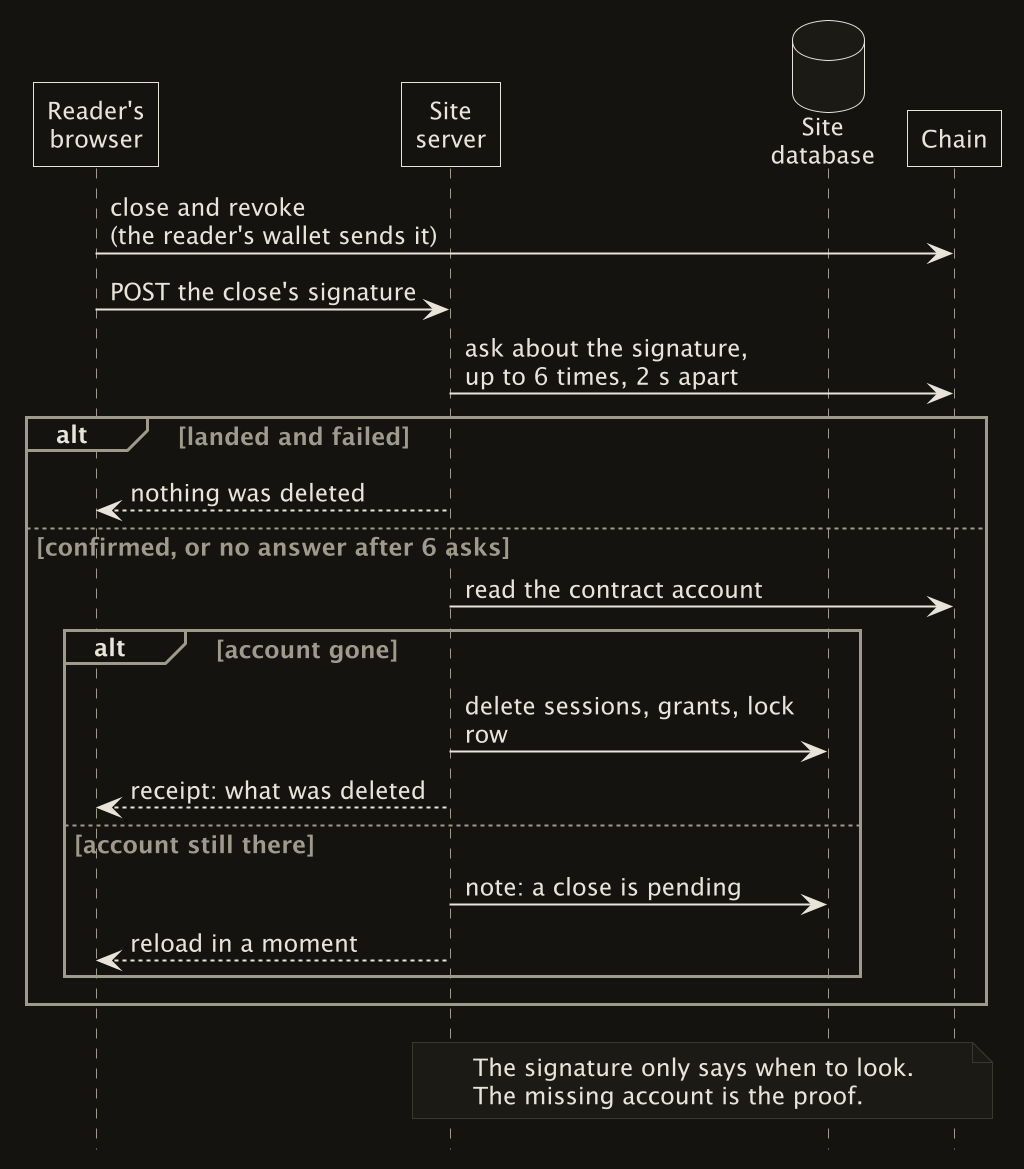
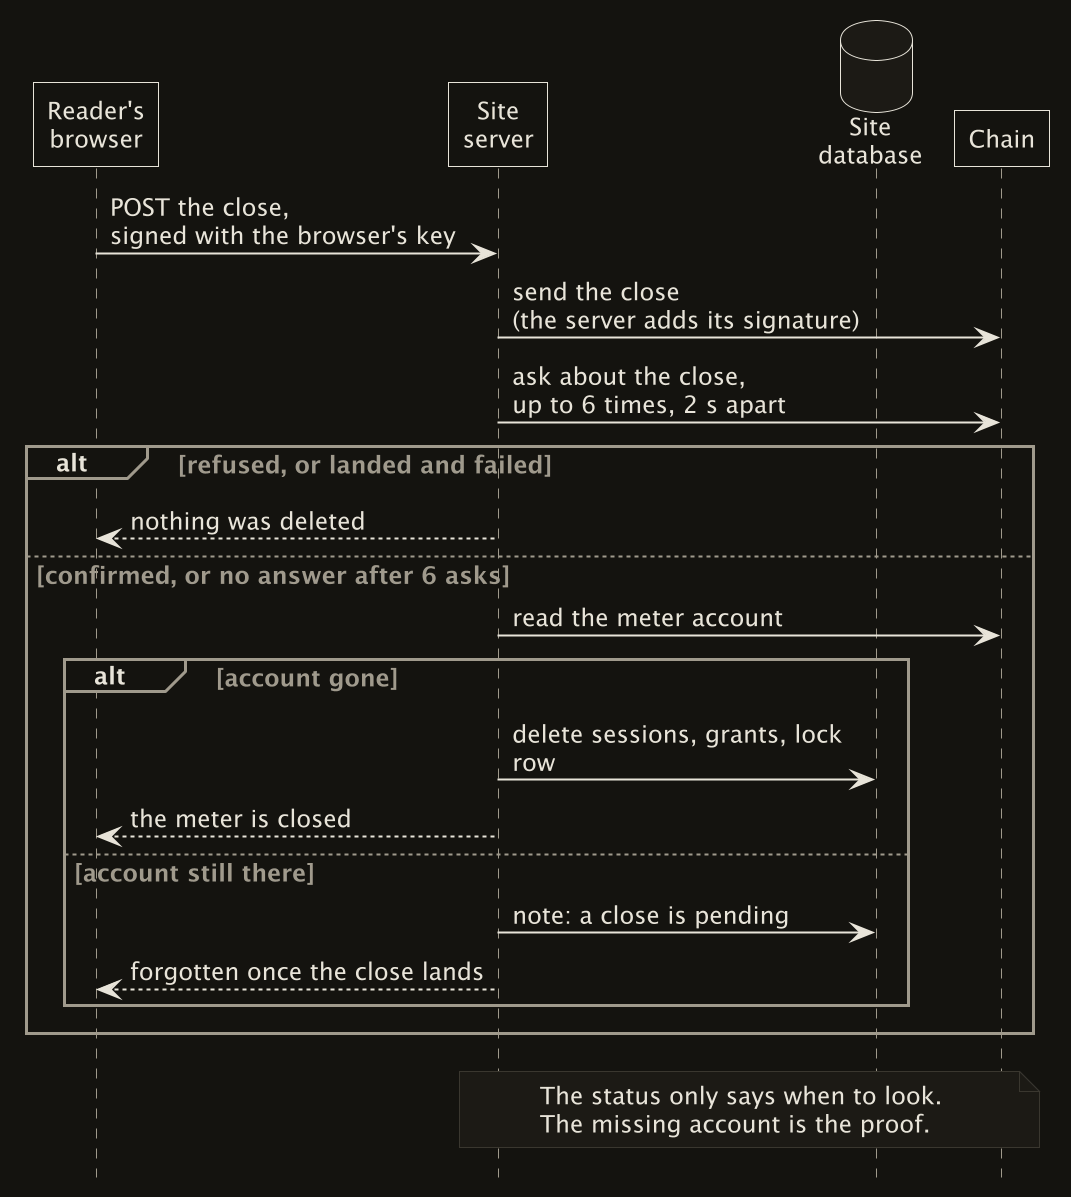
Revise two-orderings article

diff --git a/content/TwoOrderings.md b/content/TwoOrderings.md
@@ -2,7 +2,7 @@
 title: Two orderings that disagree on purpose
 slug: two-orderings
 created: 2026-09-07
-revised: 2026-09-17
+revised: 2026-10-02
 metered: true
 status: published
 lede: >
@@ -58,8 +58,8 @@ has landed. Then one of four things happens:
   can no longer land, because its blockhash has expired. The server marks the
   grant that way, and keeps it.
 
-![A sequence diagram with four lifelines: the reader's browser, the site server, the site database and the chain. The browser posts the article. The server locks the wallet, finds no grant, and sends the charge it signed. Two branches. If the endpoint's check refuses the charge, nothing is sent, and the server returns why the charge failed, with nothing recorded. If the charge is accepted, the server records the grant as pending and returns the article with a line saying the charge is on its way. After a divider labelled the page asks what became of the charge: the browser posts a confirm, and the server asks about the signature up to six times, two seconds apart. Three branches. Confirmed: mark the grant confirmed, and return the meter with the charge in it. Landed and failed: mark the grant refused but keep it, and say the charge was turned down and nothing was charged. No answer yet: say it is not confirmed yet, and that a later request asks again. A note says the grant is written before the page is built, and is kept whatever the chain answers.](/assets/img/two-orderings-charge-light.png)
-![A sequence diagram with four lifelines: the reader's browser, the site server, the site database and the chain. The browser posts the article. The server locks the wallet, finds no grant, and sends the charge it signed. Two branches. If the endpoint's check refuses the charge, nothing is sent, and the server returns why the charge failed, with nothing recorded. If the charge is accepted, the server records the grant as pending and returns the article with a line saying the charge is on its way. After a divider labelled the page asks what became of the charge: the browser posts a confirm, and the server asks about the signature up to six times, two seconds apart. Three branches. Confirmed: mark the grant confirmed, and return the meter with the charge in it. Landed and failed: mark the grant refused but keep it, and say the charge was turned down and nothing was charged. No answer yet: say it is not confirmed yet, and that a later request asks again. A note says the grant is written before the page is built, and is kept whatever the chain answers.](/assets/img/two-orderings-charge-dark.png)
+![A sequence diagram with four lifelines: the reader's browser, the site server, the site database and the chain. The browser posts the article. The server locks the meter, finds no grant, and sends the charge it signed. Two branches. If the endpoint's check refuses the charge, nothing is sent, and the server returns why the charge failed, with nothing recorded. If the charge is accepted, the server records the grant as pending and returns the article with a line saying the charge is on its way. After a divider labelled the page asks what became of the charge: the browser posts a confirm, and the server asks about the signature up to six times, two seconds apart. Three branches. Confirmed: mark the grant confirmed, and return the meter with the charge in it. Landed and failed: mark the grant refused but keep it, and say the charge was turned down and nothing was charged. No answer yet: say it is not confirmed yet, and that a later request asks again. A note says the grant is written before the page is built, and is kept whatever the chain answers.](/assets/img/two-orderings-charge-light.png)
+![A sequence diagram with four lifelines: the reader's browser, the site server, the site database and the chain. The browser posts the article. The server locks the meter, finds no grant, and sends the charge it signed. Two branches. If the endpoint's check refuses the charge, nothing is sent, and the server returns why the charge failed, with nothing recorded. If the charge is accepted, the server records the grant as pending and returns the article with a line saying the charge is on its way. After a divider labelled the page asks what became of the charge: the browser posts a confirm, and the server asks about the signature up to six times, two seconds apart. Three branches. Confirmed: mark the grant confirmed, and return the meter with the charge in it. Landed and failed: mark the grant refused but keep it, and say the charge was turned down and nothing was charged. No answer yet: say it is not confirmed yet, and that a later request asks again. A note says the grant is written before the page is built, and is kept whatever the chain answers.](/assets/img/two-orderings-charge-dark.png)
 
 Until the chain answers, the page shows none of the meter's numbers. A read
 of the reader's accounts taken straight after sending would return the
@@ -85,7 +85,8 @@ A charge that lands and fails costs the same, plus the fee for the failed
 transaction. The endpoint's check has already turned away the charges that
 were bound to fail. What gets past it and fails anyway is a charge whose
 accounts changed in the second between the check and the chain: the reader
-spending from the same wallet in that moment, say. Taking the article back
+withdrawing from the fund in that moment, say, or another site settling on the
+same fund. Taking the article back
 afterwards would leave the reader wondering what happened to the page they
 were reading.
 
@@ -112,45 +113,43 @@ article without a second charge.
 [The request nobody made](/a/request-nobody-made) says more about that second
 request.
 
-## Erase nothing until the contract account is gone
+## Erase nothing until the meter account is gone
 
 Closing works the other way round.
 
-The reader's wallet signs and sends one transaction with two instructions. The
-first closes the reader's contract with the site and forgives whatever is
-unpaid. The second revokes the site's permission to draw from the reader's
-token account. The browser then reports the transaction's signature to the
-server.
+The close is one instruction. It closes the reader's meter and forgives
+whatever is unpaid. The reader's browser signs the close with the key the
+meter names. The server adds the site's signature, pays the fee, and sends the
+transaction.
 
-The server asks the chain about that signature up to six times, two seconds
-apart.
+The server asks the chain about the close up to six times, two seconds apart.
 
-- **The transaction landed and failed.** The server deletes nothing, and says
-  so.
+- **The transaction was refused, or landed and failed.** The server deletes
+  nothing, and says so.
 
-Otherwise the server reads the reader's contract account from the chain, and
+Otherwise the server reads the reader's meter account from the chain, and
 decides:
 
-- **The account is gone.** The server deletes every session for that wallet,
-  every grant, and the row it keeps for that wallet. The cookie is cleared.
-  The page shows a receipt that counts what was deleted.
+- **The account is gone.** The server deletes every session for that meter,
+  every grant, and the row it keeps for that meter. The cookie is cleared. The
+  page says the meter is closed, and the browser deletes its key.
 - **The account is still there.** The server deletes nothing. It writes a
-  note that a close is pending, and tells the reader to reload in a moment.
-  The section *Give the waiting path a way to finish later* explains the
-  note.
+  note that a close is pending, and tells the reader that the site will forget
+  the meter once the close lands. The browser keeps its key. The section *Give
+  the waiting path a way to finish later* explains the note.
 
-![A sequence diagram with the same four lifelines. The reader's wallet sends close and revoke to the chain. The browser posts the close's signature to the server. The server asks about that signature up to six times, two seconds apart. If the transaction landed and failed, nothing is deleted. Otherwise the server reads the contract account. If the account is gone, the server deletes sessions, grants and the lock row, and returns a receipt of what was deleted. If the account is still there, the server writes a note that a close is pending and tells the reader to reload in a moment. A note says the signature only says when to look, and the missing account is the proof.](/assets/img/two-orderings-close-light.png)
-![A sequence diagram with the same four lifelines. The reader's wallet sends close and revoke to the chain. The browser posts the close's signature to the server. The server asks about that signature up to six times, two seconds apart. If the transaction landed and failed, nothing is deleted. Otherwise the server reads the contract account. If the account is gone, the server deletes sessions, grants and the lock row, and returns a receipt of what was deleted. If the account is still there, the server writes a note that a close is pending and tells the reader to reload in a moment. A note says the signature only says when to look, and the missing account is the proof.](/assets/img/two-orderings-close-dark.png)
+![A sequence diagram with the same four lifelines. The browser posts the close, signed with its key. The server adds the site's signature and sends the close to the chain, then asks about it up to six times, two seconds apart. If the transaction was refused or landed and failed, nothing is deleted. Otherwise the server reads the meter account. If the account is gone, the server deletes sessions, grants and the lock row, and answers that the meter is closed. If the account is still there, the server writes a note that a close is pending and answers that the site will forget the meter once the close lands. A note says the signature only says when to look, and the missing account is the proof.](/assets/img/two-orderings-close-light.png)
+![A sequence diagram with the same four lifelines. The browser posts the close, signed with its key. The server adds the site's signature and sends the close to the chain, then asks about it up to six times, two seconds apart. If the transaction was refused or landed and failed, nothing is deleted. Otherwise the server reads the meter account. If the account is gone, the server deletes sessions, grants and the lock row, and answers that the meter is closed. If the account is still there, the server writes a note that a close is pending and answers that the site will forget the meter once the close lands. A note says the signature only says when to look, and the missing account is the proof.](/assets/img/two-orderings-close-dark.png)
 
 Now the two mistakes have swapped sizes.
 
-Erase on the strength of a close that has not landed, and the receipt says
-the contract is closed. The contract is still open. The site is still
-permitted to draw from the reader's token account. The grants for articles the
-reader has already paid for are gone. The reader leaves believing that an
-authorization has ended when the authorization is still live. Ending the
-authorization was the whole reason for the click. Nothing afterwards prompts
-the reader to check the receipt against the chain.
+Erase on the strength of a close that has not landed, and the page says the
+meter is closed. The meter is still open. The site is still permitted to draw
+on the reader's fund, up to the limit. The grants for articles the reader has
+already paid for are gone. The reader leaves believing that the arrangement
+has ended when the arrangement is still live. Ending the arrangement was the
+whole reason for the click. Nothing afterwards prompts the reader to check the
+page against the chain.
 
 The other mistake is to keep the records a little longer and ask the reader to
 try again.
@@ -160,68 +159,60 @@ mistake is simply on the other side this time.
 
 ## Take the account as proof, not the signature
 
-The two paths differ in one more way, and the difference decides what counts
-as proof.
+Both paths ask the chain about a signature, and in neither path is the answer
+the proof.
 
-When the site charges, the server signs and sends the transaction itself. The
-signature the server asks about is the server's own. The later request that asks
-about it takes the signature from the site's own record of the grant, never
-from the browser.
+A signature's status says that a transaction was processed. It says so only
+while the endpoint still remembers the transaction, and an endpoint that
+answers nothing has not said the transaction failed. So the status tells the
+server when to look. What the server looks at is the meter account. The
+account's address is derived from the site's address and the reader's fund, so
+the server can find the account without asking anyone. A meter account that no
+longer exists is not a report about a transaction. A missing account is the
+state the transaction was for, read back from the chain that holds it.
 
-When a reader closes the meter, the reader's wallet sends the transaction. The
-server only hears about the transaction from the browser. The signature is a
-string from a place the server does not control. Even a genuine signature
-shows only that something was submitted.
+Setting a meter up shows the rule most plainly, because there the server has
+no signature to ask about. The reader's wallet sends the setup transaction,
+and the wallet tells the site nothing. When the reader presses *continue*, the
+server looks for the meter account, checks that it names the browser's key,
+and trusts nothing else.
 
-The server does ask for that signature's status. The answer tells the server
-when to look. The answer is not the proof. The proof is the contract account. The
-account's address is derived from the site's address and the reader's wallet,
-so the server can find the account without asking anyone. A contract account
-that no longer exists is not a report about a transaction. A missing account
-is the state the transaction was for, read back from the chain that holds it.
-
-Opening a meter follows the same rule in the other direction. After the reader's
-wallet sends the transaction that opens a contract, the server looks for the
-contract account and trusts nothing else.
-
-In code, the difference between trusting the signature and reading the
-account is a few lines. Those few lines are the difference between a site
-that believes its readers' browsers and a site that does not have to.
+In code, the difference between trusting a report and reading the account is a
+few lines. Those few lines are the difference between a site that believes
+what it is told and a site that does not have to.
 
 ## Give the waiting path a way to finish later
 
-Waiting has a cost. Until this piece was written, the site had not paid all
-of it.
+Waiting has a cost, and a path that waits has to pay all of it.
 
 Suppose the close lands at second twenty. The server asked for the last time
-at about second twelve, read the chain, found the contract still there, and deleted
-nothing. The reader reloads, as told. The meter now says that this wallet has
-no contract and nothing to close. The meter is right. But the erasure ran only
-in the request that saw the contract account gone, and that request had
-already given up. The site kept the session and the grants that the close was
-meant to delete.
+at about second twelve, read the chain, found the meter still there, and
+deleted nothing. The reader comes back a minute later. The meter page now says
+that this browser holds no meter and has nothing to close. The page is right.
+But the erasure ran only in the request that saw the meter account gone, and
+that request had already given up. The site kept the session and the grants
+that the close was meant to delete.
 
 A path that leans back needs a second way to reach its end. Charging has one
 already: the pending mark on the grant is its note, and a later request
 finishes the job. So the request that gives up on a close now leaves a note
-too: a close was sent for this wallet, with this
-signature. Every later request that knows its wallet checks for a note before
-doing anything else. When a note is there, the server reads the contract
-account again. If the account is gone, the server finishes the erasure, note
+too: a close was sent for this meter, with this signature. Every later request
+that knows its meter checks for a note before doing anything else. When a note
+is there, the server reads the meter account again. If the account is gone, the server finishes the erasure, note
 included, and the request goes on as if nobody were identified.
 
-![A sequence diagram with the same four lifelines. The browser posts the close's signature. The server asks about the signature up to six times, reads the contract account, finds it still there, writes a note that a close is pending, and tells the reader to reload. The close then lands at second twenty. After a divider labelled the reader reloads: the browser asks for the meter, the server looks up the session and finds this wallet with a pending close, reads the contract account, finds it gone, deletes sessions, grants, the lock row and the note, and answers that no paying wallet is stored. A note says that without the note, the reload cannot tell a meter just closed from one never opened.](/assets/img/two-orderings-late-close-light.png)
-![A sequence diagram with the same four lifelines. The browser posts the close's signature. The server asks about the signature up to six times, reads the contract account, finds it still there, writes a note that a close is pending, and tells the reader to reload. The close then lands at second twenty. After a divider labelled the reader reloads: the browser asks for the meter, the server looks up the session and finds this wallet with a pending close, reads the contract account, finds it gone, deletes sessions, grants, the lock row and the note, and answers that no paying wallet is stored. A note says that without the note, the reload cannot tell a meter just closed from one never opened.](/assets/img/two-orderings-late-close-dark.png)
+![A sequence diagram with the same four lifelines. The browser posts the signed close. The server sends it, asks about it up to six times, reads the meter account, finds it still there, writes a note that a close is pending, and answers that the site will forget the meter once the close lands. The close then lands at second twenty. After a divider labelled the reader comes back: the browser asks for the meter page, the server looks up the session and finds this meter with a pending close, reads the meter account, finds it gone, deletes sessions, grants, the lock row and the note, and answers that this browser holds no meter. A note says that without the note, the reload cannot tell a meter just closed from one never opened.](/assets/img/two-orderings-late-close-light.png)
+![A sequence diagram with the same four lifelines. The browser posts the signed close. The server sends it, asks about it up to six times, reads the meter account, finds it still there, writes a note that a close is pending, and answers that the site will forget the meter once the close lands. The close then lands at second twenty. After a divider labelled the reader comes back: the browser asks for the meter page, the server looks up the session and finds this meter with a pending close, reads the meter account, finds it gone, deletes sessions, grants, the lock row and the note, and answers that this browser holds no meter. A note says that without the note, the reload cannot tell a meter just closed from one never opened.](/assets/img/two-orderings-late-close-dark.png)
 
-Without the note, the reload cannot tell a wallet that has just closed its
-meter from a wallet that has never opened one. Both show the same thing on
-chain: no contract account.
+Without the note, the later request cannot tell a browser whose meter has just
+closed from a browser that never had one. Both show the same thing on chain:
+no meter account.
 
 The note has limits of its own, and they follow the same rule as the rest of
 this piece:
 
 - **If the chain does not answer,** the note stays and nothing is deleted.
-- **If the contract is still there three minutes after the close was sent,**
+- **If the meter is still there three minutes after the close was sent,**
   the close can no longer land, because its blockhash has expired. The note
   is dropped, and nothing is deleted.
 - **If the reader never comes back,** the note waits, but not forever. The
@@ -229,7 +220,7 @@ this piece:
   as they would for any reader. Once nothing is left for the note to erase,
   the scheduled sweep deletes the note too.
 
-The note holds the wallet address and the close's signature. The chain
+The note holds the meter and the close's signature. The chain
 already shows both, in the close transaction itself. The privacy page lists
 the note anyway, because it is something the site holds.
 
@@ -246,10 +237,10 @@ Make both paths write and then wait, and closing breaks. That bug would be
 very hard to notice. When the close lands in time, the visible result is
 identical. A close nearly always lands in time. The bug would show only when
 the chain is slow, only for a reader who had just asked to end the
-arrangement, and only as a receipt that says something false.
+arrangement, and only as a page that says something false.
 
-![A sequence diagram of the wrong order for closing. The wallet sends close and revoke. The browser posts the signature. The server deletes sessions and grants first, marked as the mistake, then asks about the signature six times while the chain is slow, and returns a receipt saying the contract is closed, also marked. A note says that if the close never lands, the contract stays open and the site can still draw from the reader's token account, while the receipt says the opposite and the reader has no reason to check it.](/assets/img/two-orderings-tidy-close-light.png)
-![A sequence diagram of the wrong order for closing. The wallet sends close and revoke. The browser posts the signature. The server deletes sessions and grants first, marked as the mistake, then asks about the signature six times while the chain is slow, and returns a receipt saying the contract is closed, also marked. A note says that if the close never lands, the contract stays open and the site can still draw from the reader's token account, while the receipt says the opposite and the reader has no reason to check it.](/assets/img/two-orderings-tidy-close-dark.png)
+![A sequence diagram of the wrong order for closing. The browser posts the signed close, and the server sends it. The server deletes sessions and grants first, marked as the mistake, then asks about the close six times while the chain is slow, and answers that the meter is closed, also marked. A note says that if the close never lands, the meter stays open and the site can still draw on the reader's fund, while the page says the opposite and the reader has no reason to check it.](/assets/img/two-orderings-tidy-close-light.png)
+![A sequence diagram of the wrong order for closing. The browser posts the signed close, and the server sends it. The server deletes sessions and grants first, marked as the mistake, then asks about the close six times while the chain is slow, and answers that the meter is closed, also marked. A note says that if the close never lands, the meter stays open and the site can still draw on the reader's fund, while the page says the opposite and the reader has no reason to check it.](/assets/img/two-orderings-tidy-close-dark.png)
 
 ## The rule
 
